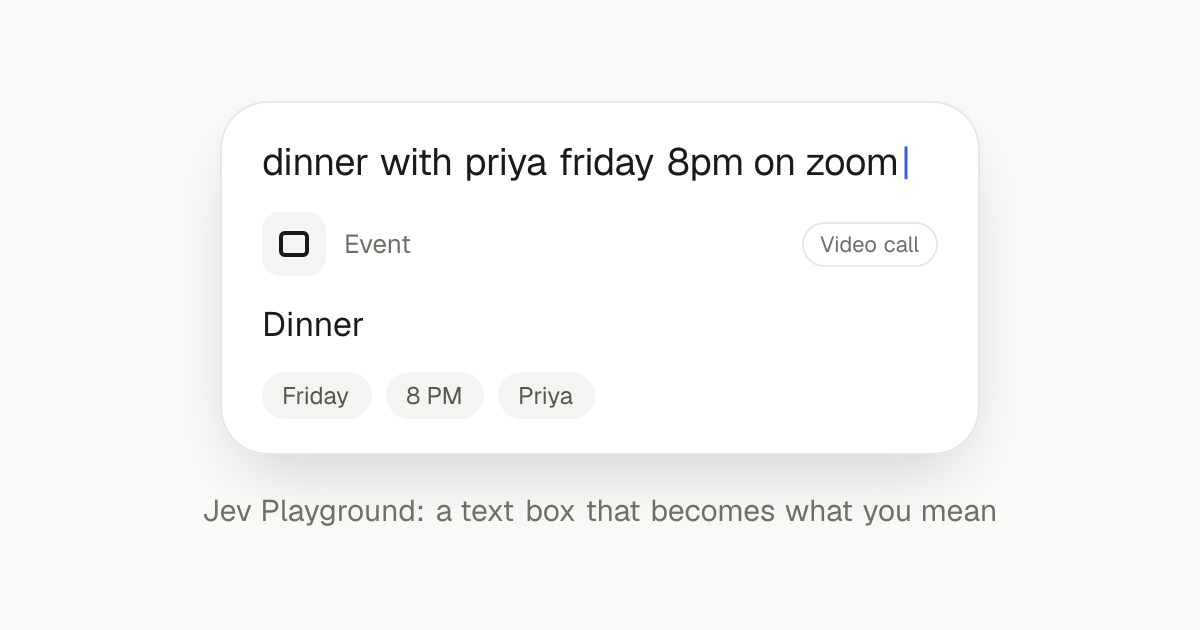
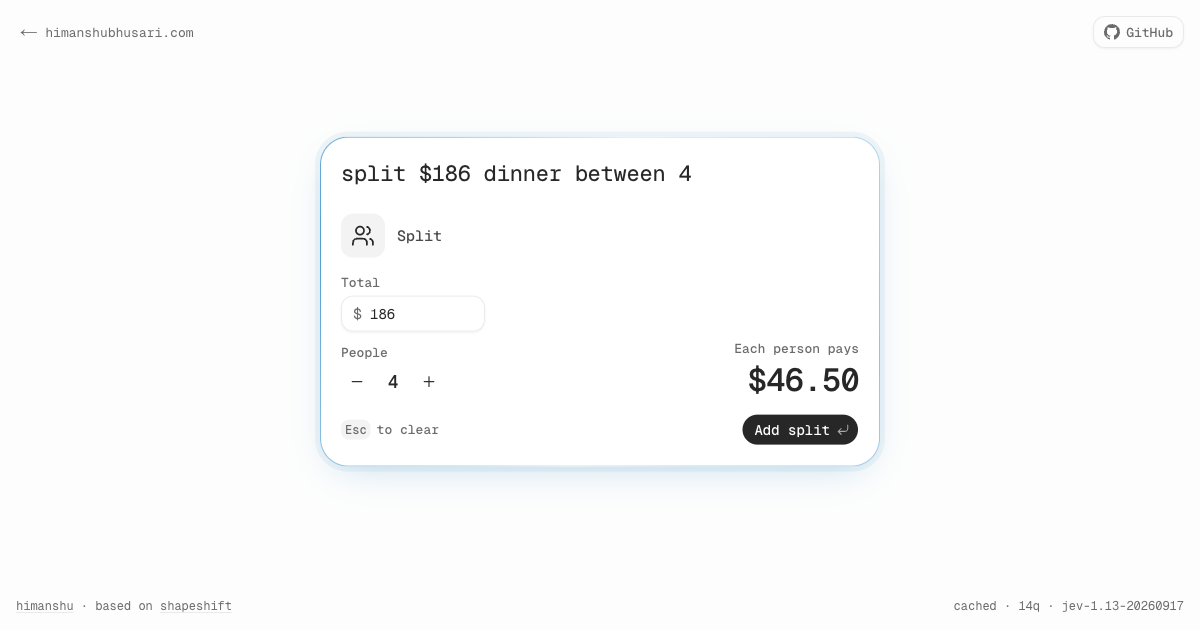
New examples without personal names, US currency and phone format, fresh screenshot and social image

diff --git a/src/components/intents/registry.ts b/src/components/intents/registry.ts
@@ -81,7 +81,7 @@ const TONE_EDGE = {
 export const registry: Registry = {
   event: {
     label: "Event",
-    example: "dinner with priya friday 8pm",
+    example: "team standup monday 10am",
     icon: CalendarDays,
     signals: ["eventMode", "recurring"],
     badges: repeats,
@@ -90,7 +90,7 @@ export const registry: Registry = {
   },
   reminder: {
     label: "Reminder",
-    example: "remind me to call mom tomorrow",
+    example: "remind me to renew passport friday",
     icon: Bell,
     signals: ["urgency", "recurring"],
     badges: (s) => [...urgent(s), ...repeats(s)],
@@ -100,7 +100,7 @@ export const registry: Registry = {
   },
   todo: {
     label: "Checklist",
-    example: "buy milk, eggs, bread and coffee",
+    example: "buy coffee, batteries and limes",
     icon: ListChecks,
     signals: ["isShoppingList", "urgency"],
     headerIcon: (s) => (s.isShoppingList ? ShoppingCart : ListChecks),
@@ -111,7 +111,7 @@ export const registry: Registry = {
   },
   timer: {
     label: "Timer",
-    example: "25 min focus",
+    example: "45 min deep work",
     icon: Timer,
     signals: ["timerKind"],
     headerIcon: (s) => (s.timerKind === "focus" ? Focus : s.timerKind === "break" ? Coffee : s.timerKind === "stopwatch" ? AlarmClock : Timer),
@@ -121,7 +121,7 @@ export const registry: Registry = {
   },
   habit: {
     label: "Habit",
-    example: "meditate every morning",
+    example: "stretch every evening",
     icon: Sun,
     signals: [],
     summary: (d) => [d.title || "Habit", d.label].filter(Boolean).join(" · "),
@@ -129,7 +129,7 @@ export const registry: Registry = {
   },
   color: {
     label: "Color",
-    example: "#ff6b35",
+    example: "#006cac",
     icon: Palette,
     signals: ["colorMood"],
     summary: (d) => [d.name ? d.name[0].toUpperCase() + d.name.slice(1) : "Color", d.hex?.toUpperCase()].filter(Boolean).join(" · "),
@@ -137,7 +137,7 @@ export const registry: Registry = {
   },
   split: {
     label: "Split",
-    example: "split 2400 between 3",
+    example: "split $186 dinner between 4",
     icon: Users,
     signals: [],
     summary: (d) =>
@@ -146,7 +146,7 @@ export const registry: Registry = {
   },
   expense: {
     label: "Expense",
-    example: "spent 450 on uber",
+    example: "spent $38 on a lyft to dfw",
     icon: Wallet,
     signals: ["expenseCategory"],
     headerIcon: (s) => (s.expenseCategory ? CATEGORY_ICON[s.expenseCategory] : Wallet),
@@ -155,7 +155,7 @@ export const registry: Registry = {
   },
   convert: {
     label: "Convert",
-    example: "5 miles in km",
+    example: "35000 feet in meters",
     icon: Ruler,
     signals: [],
     summary: (d) =>
@@ -166,7 +166,7 @@ export const registry: Registry = {
   },
   calc: {
     label: "Calculate",
-    example: "18% of 3450",
+    example: "15% of 86",
     icon: Calculator,
     signals: [],
     summary: (d) => (d.result !== null ? `${d.expression} = ${d.result.toLocaleString("en-US")}` : d.expression),
@@ -174,7 +174,7 @@ export const registry: Registry = {
   },
   travel: {
     label: "Trip",
-    example: "flight to goa next weekend",
+    example: "flight to tokyo in march",
     icon: TRANSPORT_ICON.flight,
     signals: ["transport", "tripType"],
     headerIcon: (s) => TRANSPORT_ICON[s.transport ?? "unspecified"],
@@ -189,7 +189,7 @@ export const registry: Registry = {
   },
   poll: {
     label: "Poll",
-    example: "pizza or burgers for friday?",
+    example: "tacos or ramen for lunch?",
     icon: Vote,
     signals: ["hasExplicitOptions"],
     summary: (d) => d.title || d.options.join(" / ") || "Poll",
@@ -197,7 +197,7 @@ export const registry: Registry = {
   },
   contact: {
     label: "Contact",
-    example: "rahul 98200 12345 rahul@mail.com",
+    example: "airline desk 214 555 0134",
     icon: Contact,
     signals: [],
     summary: (d) => [d.name || "Contact", d.phone ?? d.email].filter(Boolean).join(" · "),
@@ -205,7 +205,7 @@ export const registry: Registry = {
   },
   link: {
     label: "Bookmark",
-    example: "https://vercel.com/blog check later",
+    example: "https://openrouter.ai check later",
     icon: Link2,
     signals: [],
     summary: (d) => [d.domain ?? "Link", d.note].filter(Boolean).join(" · "),
@@ -213,7 +213,7 @@ export const registry: Registry = {
   },
   countdown: {
     label: "Countdown",
-    example: "days until christmas",
+    example: "days until new year",
     icon: CalendarClock,
     signals: [],
     summary: (d) =>
@@ -222,7 +222,7 @@ export const registry: Registry = {
   },
   timezone: {
     label: "Time zone",
-    example: "3pm pst in ist",
+    example: "9am cst in tokyo",
     icon: Globe,
     signals: [],
     summary: (d) =>
@@ -231,7 +231,7 @@ export const registry: Registry = {
   },
   random: {
     label: "Random",
-    example: "roll 2d6",
+    example: "flip a coin",
     icon: Dices,
     signals: [],
     summary: (d) => describeRandom(d),
@@ -239,7 +239,7 @@ export const registry: Registry = {
   },
   goal: {
     label: "Goal",
-    example: "read 12 books this year, 4 done",
+    example: "run 100 miles this month, 34 done",
     icon: Target,
     signals: [],
     summary: (d) => (d.target ? `${d.title || "Goal"} · ${d.current}/${d.target}${d.unit ? ` ${d.unit}` : ""}` : d.title || "Goal"),
@@ -247,7 +247,7 @@ export const registry: Registry = {
   },
   note: {
     label: "Note",
-    example: "the city felt so quiet this morning",
+    example: "5am airports have their own calm",
     icon: StickyNote,
     signals: ["tone", "isQuestion"],
     // The edge color is always paired with a tone word in the header, never color alone.

diff --git a/src/lib/__tests__/parse.test.ts b/src/lib/__tests__/parse.test.ts
@@ -145,11 +145,11 @@ describe("color", () => {
 });
 
 describe("split", () => {
-  test("split 2400 between 3", () => expect(parseSplit("split 2400 between 3")).toEqual({ total: 2400, people: 3, currency: "₹" }));
+  test("split 2400 between 3", () => expect(parseSplit("split 2400 between 3")).toEqual({ total: 2400, people: 3, currency: "$" }));
   test("dollars", () => expect(parseSplit("split $90 among four").currency).toBe("$"));
   test("names", () => expect(parseSplit("split 900 between me, rahul and priya").people).toBe(3));
   test("ways", () => expect(parseSplit("1,200 4 ways").total).toBe(1200));
-  test("partial", () => expect(parseSplit("split 500")).toEqual({ total: 500, people: null, currency: "₹" }));
+  test("partial", () => expect(parseSplit("split 500")).toEqual({ total: 500, people: null, currency: "$" }));
 });
 
 describe("expense", () => {
@@ -230,7 +230,7 @@ describe("poll", () => {
 describe("contact", () => {
   test("rahul 98200 12345 rahul@mail.com", () => {
     const c = parseContact("rahul 98200 12345 rahul@mail.com");
-    expect(c).toEqual({ name: "Rahul", phone: "98200 12345", email: "rahul@mail.com", initials: "R" });
+    expect(c).toEqual({ name: "Rahul", phone: "(982) 001-2345", email: "rahul@mail.com", initials: "R" });
   });
   test("+91", () => expect(parseContact("anna sharma +91 98765 43210").phone).toBe("+91 98765 43210"));
   test("initials", () => expect(parseContact("anna sharma a@b.co").initials).toBe("AS"));

diff --git a/src/hooks/useDemoScript.ts b/src/hooks/useDemoScript.ts
@@ -5,18 +5,18 @@ import { useEffect, useRef } from "react";
 type Step = { text: string; then?: string };
 
 export const DEMO_SCRIPT: Step[] = [
-  { text: "dinner with priya friday 8pm", then: " on zoom" },
-  { text: "buy milk, eggs, bread and coffee" },
-  { text: "25 min focus" },
-  { text: "#ff6b35" },
-  { text: "split 2400 between 3" },
-  { text: "5 miles in km" },
-  { text: "flight to goa next weekend" },
-  { text: "pizza or burgers for friday?" },
-  { text: "days until christmas" },
-  { text: "3pm pst in ist" },
-  { text: "roll 2d6" },
-  { text: "remind me to pay rent tomorrow urgent" },
+  { text: "team standup monday 10am", then: " on meet" },
+  { text: "buy coffee, batteries and limes" },
+  { text: "45 min deep work" },
+  { text: "#006cac" },
+  { text: "split $186 dinner between 4" },
+  { text: "35000 feet in meters" },
+  { text: "flight to tokyo in march" },
+  { text: "tacos or ramen for lunch?" },
+  { text: "days until new year" },
+  { text: "9am cst in tokyo" },
+  { text: "flip a coin" },
+  { text: "renew passport friday, urgent!" },
 ];
 
 export type DemoApi = {

diff --git a/src/components/shapeshift/CyclingPlaceholder.tsx b/src/components/shapeshift/CyclingPlaceholder.tsx
@@ -5,18 +5,18 @@ import { useEffect, useState } from "react";
 import { tween } from "@/lib/motion";
 
 const EXAMPLES = [
-  "dinner with priya friday 8pm",
-  "buy milk, eggs, bread and coffee",
-  "25 min focus",
-  "a warm sunset orange",
-  "split 2400 between 3",
-  "5 miles in km",
-  "flight to goa next weekend",
-  "pizza or burgers for friday?",
-  "days until christmas",
-  "3pm pst in ist",
-  "roll 2d6",
-  "minecraft diamond",
+  "team standup monday 10am",
+  "buy coffee, batteries and limes",
+  "45 min deep work",
+  "a deep ocean blue",
+  "split $186 dinner between 4",
+  "35000 feet in meters",
+  "flight to tokyo in march",
+  "tacos or ramen for lunch?",
+  "days until new year",
+  "9am cst in tokyo",
+  "flip a coin",
+  "pale sky blue",
 ];
 
 export function CyclingPlaceholder() {

diff --git a/src/components/shapeshift/Shapeshift.tsx b/src/components/shapeshift/Shapeshift.tsx
@@ -273,7 +273,7 @@ export function Shapeshift() {
   return (
     <MotionConfig reducedMotion="user">
       <main id="main" className="mx-auto w-full max-w-[560px] px-4 pt-[14vh] pb-24 sm:px-0 sm:pt-[22vh]">
-        <h1 className="sr-only">Shapeshift</h1>
+        <h1 className="sr-only">Jev Playground</h1>
         <MorphContainer readiness={readiness} edge={ghost ? null : (meta?.edge ?? null)}>
           <motion.div layout="position" className="relative flex h-[72px] items-center px-5">
             <input

diff --git a/src/lib/parse/contact.ts b/src/lib/parse/contact.ts
@@ -7,7 +7,7 @@ const PHONE_RE = /(?:\+?\d{1,3}[\s-]?)?\(?\d{3,5}\)?[\s-]?\d{3,5}[\s-]?\d{0,5}/;
 
 export function formatPhone(raw: string) {
   const digits = raw.replace(/\D/g, "");
-  if (digits.length === 10) return `${digits.slice(0, 5)} ${digits.slice(5)}`;
+  if (digits.length === 10) return `(${digits.slice(0, 3)}) ${digits.slice(3, 6)}-${digits.slice(6)}`;
   if (digits.length === 12 && digits.startsWith("91")) return `+91 ${digits.slice(2, 7)} ${digits.slice(7)}`;
   return raw.trim();
 }

diff --git a/src/components/intents/GoalCard.tsx b/src/components/intents/GoalCard.tsx
@@ -23,7 +23,7 @@ export function GoalCard({ data, interactive }: CardProps<GoalData>) {
     return (
       <Field index={0} className="flex flex-col gap-1">
         {data.title && <h2 className="text-[17px] leading-6 font-[550] text-balance">{data.title}</h2>}
-        <Missing>Add a target, like “read 12 books, 4 done”</Missing>
+        <Missing>Add a target, like “run 100 miles, 34 done”</Missing>
       </Field>
     );
   }

diff --git a/src/components/intents/ColorPicker.tsx b/src/components/intents/ColorPicker.tsx
@@ -27,7 +27,7 @@ export function ColorPicker({ data, interactive }: CardProps<ColorData>) {
     return (
       <Field index={0} className="flex items-center gap-4">
         <div className="size-16 shrink-0 rounded-md border border-dashed border-line-strong" />
-        <Missing>Type a hex code like #ff6b35 or a color name</Missing>
+        <Missing>Type a hex code like #006cac or a color name</Missing>
       </Field>
     );
   }

diff --git a/src/components/intents/ConvertCard.tsx b/src/components/intents/ConvertCard.tsx
@@ -26,7 +26,7 @@ export function ConvertCard({ data, interactive }: CardProps<ConvertData>) {
   if (data.value === null || !data.from) {
     return (
       <Field index={0} className="flex items-center gap-2">
-        <Missing>Type a value with a unit, like 5 miles in km</Missing>
+        <Missing>Type a value with a unit, like 35000 feet in meters</Missing>
       </Field>
     );
   }

diff --git a/src/components/intents/TimezoneCard.tsx b/src/components/intents/TimezoneCard.tsx
@@ -18,7 +18,7 @@ export function TimezoneCard({ data }: CardProps<TimezoneData>) {
   if (!data.to || !data.instant) {
     return (
       <Field index={0}>
-        <Missing>Add a place or zone, like “3pm pst in ist” or “time in tokyo”</Missing>
+        <Missing>Add a place or zone, like “9am cst in tokyo” or “time in london”</Missing>
       </Field>
     );
   }

diff --git a/src/components/intents/CountdownCard.tsx b/src/components/intents/CountdownCard.tsx
@@ -11,7 +11,7 @@ export function CountdownCard({ data }: CardProps<CountdownData>) {
   if (data.days === null || !data.date) {
     return (
       <Field index={0}>
-        <Missing>Type a date or a holiday, like “days until christmas”</Missing>
+        <Missing>Type a date or a holiday, like “days until new year”</Missing>
       </Field>
     );
   }

diff --git a/src/lib/parse/common.ts b/src/lib/parse/common.ts
@@ -25,7 +25,7 @@ export function tidy(s: string) {
 }
 
 export type Currency = "₹" | "$" | "€" | "£";
-export const DEFAULT_CURRENCY: Currency = "₹";
+export const DEFAULT_CURRENCY: Currency = "$";
 
 export function detectCurrency(text: string): Currency {
   if (/\$|\busd\b|dollars?\b/i.test(text)) return "$";
